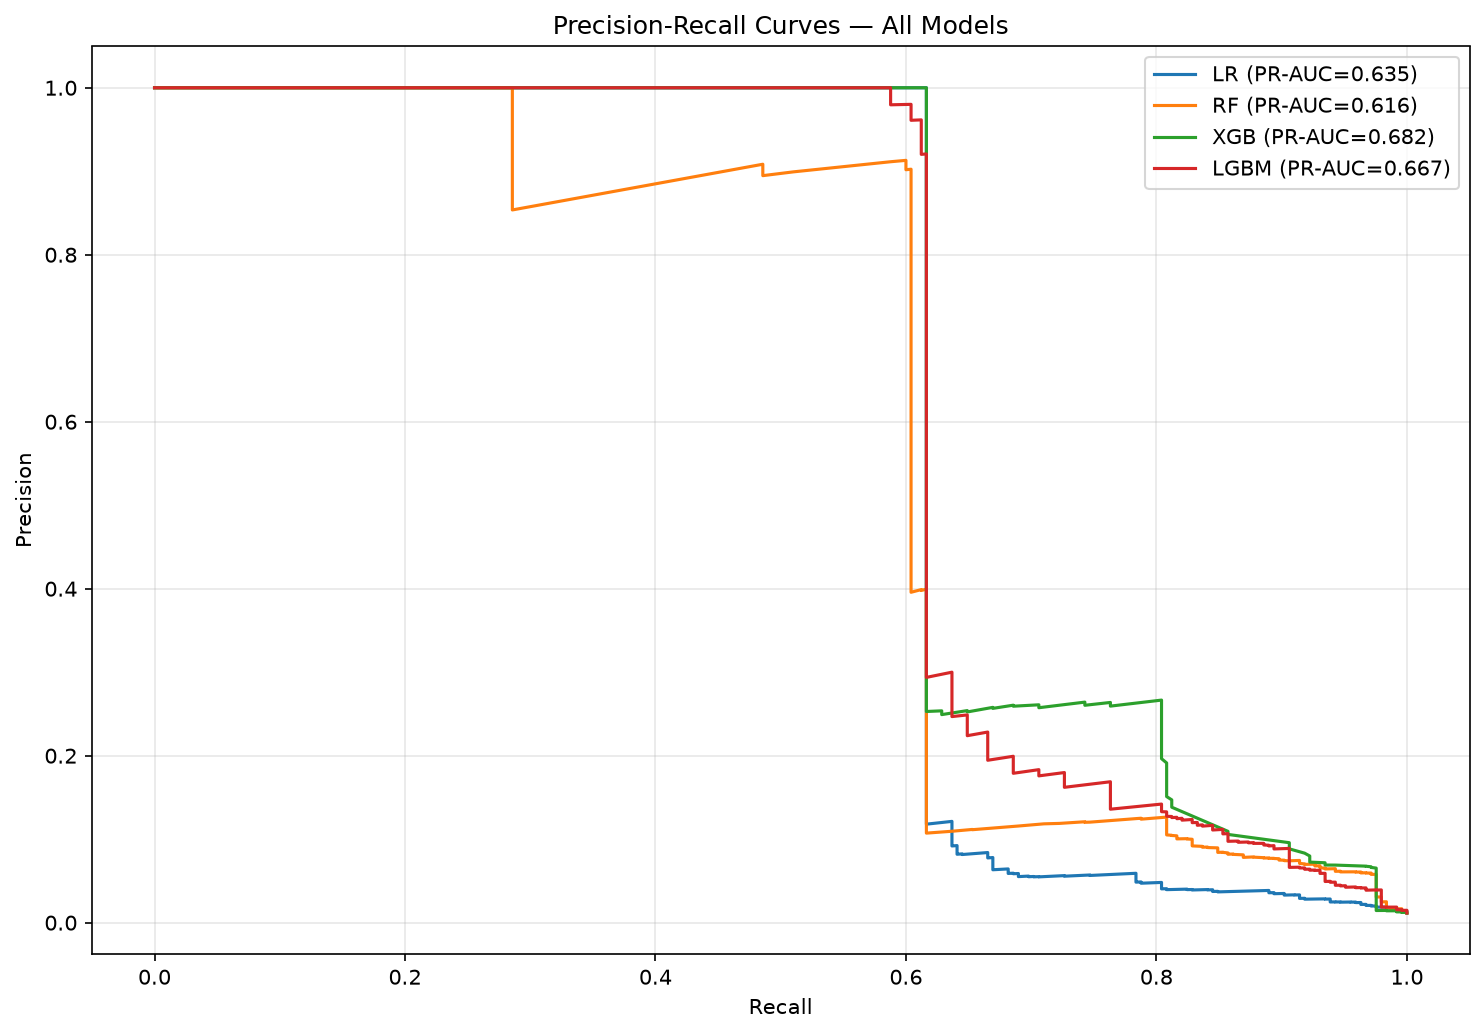
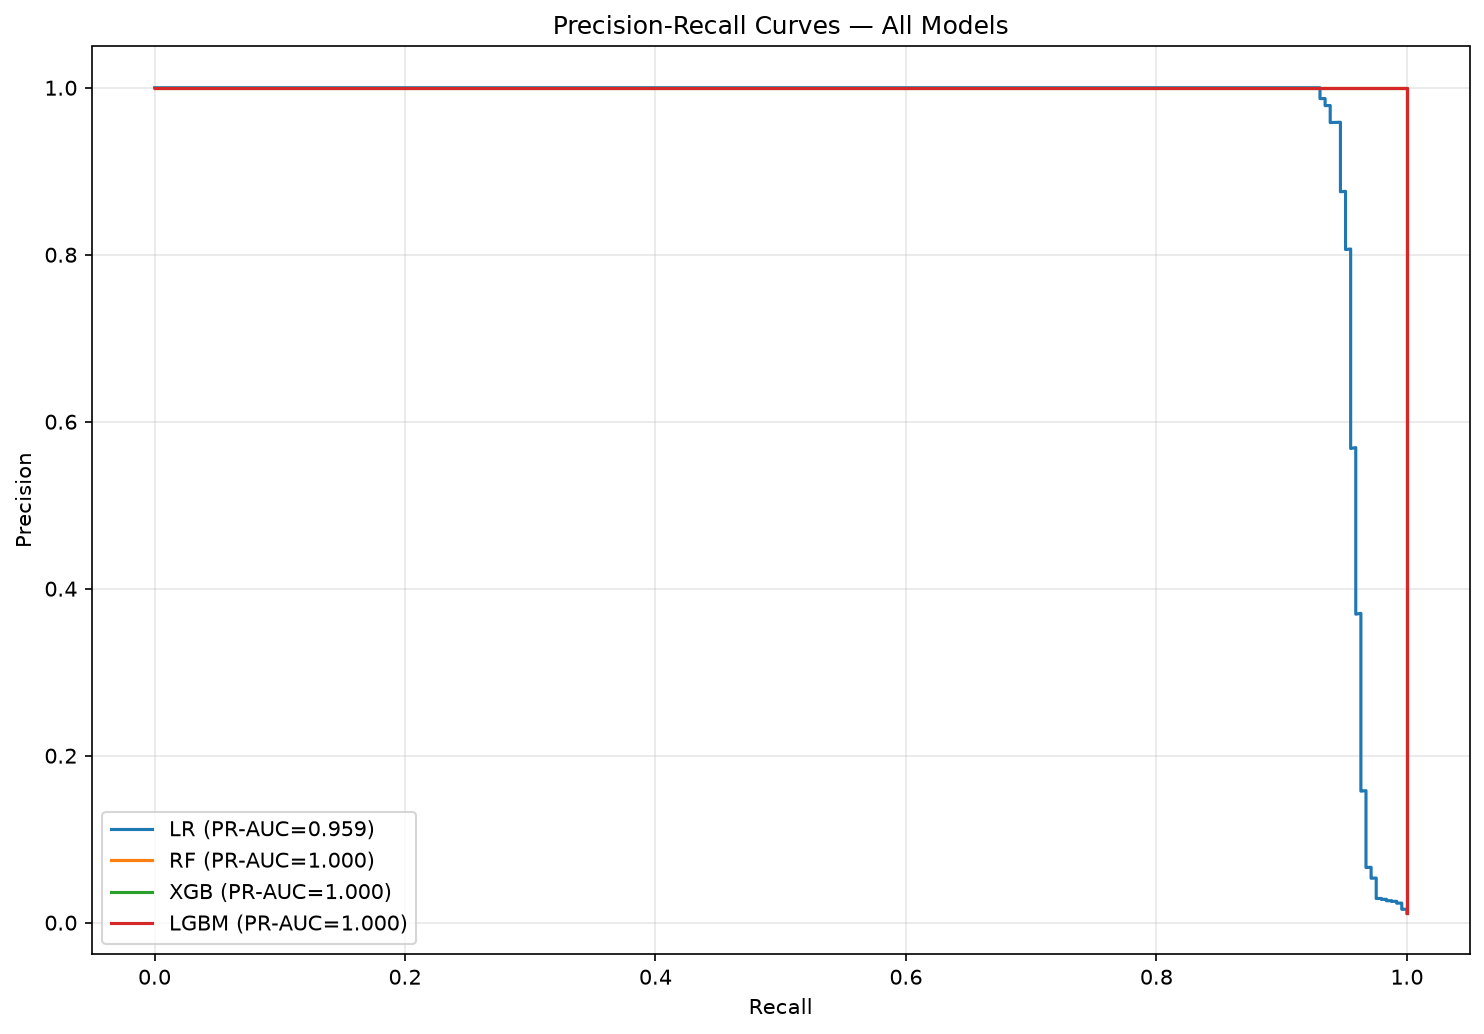
feat: adds session features on model and document

diff --git a/docs/2.2-feature-engineering-decisions.md b/docs/2.2-feature-engineering-decisions.md
@@ -81,13 +81,13 @@ This document captures every design choice, trade-off, and justification for the
 
 ---
 
-## 4. Session/Source-Level Aggregated Features (78 total) — EXCLUDED FROM BASELINE
+## 4. Session/Source-Level Aggregated Features (78 total: 42 active + 36 excluded)
 
-> **Status:** Designed and implemented (`src/features.py:compute_session_features`), but **excluded from the 2.3 baseline model** due to data leakage. The current implementation uses `groupby` + `transform` over the full dataset, meaning each request's session features include information from future requests and from test-set rows. This produces artificially high model performance (PR-AUC 1.0 on all tree models).
+> **Status:** Implemented with **causal windowing** (`src/features.py:compute_session_features`). Each request's session features aggregate only prior requests within the same time window — the current request is never included in its own aggregates. This matches the real-time edge computation model where counters are updated after classification.
 >
-> **Fix required:** Causal windowing — session features must only aggregate past requests within each time window. This requires either (a) an online/streaming computation that processes rows in timestamp order, or (b) a rolling-window join that excludes the current and future rows. This is planned for a future iteration.
+> Of the 78 session features, **42 are active** in the baseline model (request-side features) and **36 are excluded** (server-response features). The excluded features (`error_rate`, `unique_status_codes`, `avg_response_time`, `std_response_time`, `avg_body_size`, `std_body_size` × 6 variants) aggregate past server responses (`status_code`, `response_time_ms`, `body_size_bytes`), which encode existing WAF decisions — the same WAF triggers that partially generate the labels. Including them produces PR-AUC 1.0 via circular dependency, not genuine behavioral signal.
 >
-> **The baseline model (2.3) uses only the 15 non-leaky request-level features.** The session feature design below remains valid for the production architecture, where features are computed incrementally from a real-time state store (counters updated per-request, never looking ahead).
+> **The baseline model (2.3) uses 57 features: 15 per-request + 42 request-side session features.**
 
 Computed at 2 granularities (IP, TLS) x 3 windows (1m, 5m, 30m) = 6 variants per base feature.
 Prefix convention: `{ip|tls}_{1m|5m|30m}_{feature_name}`
@@ -108,7 +108,7 @@ Prefix convention: `{ip|tls}_{1m|5m|30m}_{feature_name}`
 | `inter_request_time_std` | float | Timing variance. Very low std = bot-like regularity. |
 | `sensitive_endpoint_ratio` | float | Fraction of requests to auth/payment/tokenize paths. Credential stuffing hammers login; normal users have mixed traffic. |
 
-**Total: 13 base x 6 variants = 78 session-level features (excluded from baseline, planned for future iteration).**
+**Total: 13 base × 6 variants = 78 session-level features. 7 request-side base features (42 features) are active in the baseline; 6 server-response base features (36 features) are excluded due to WAF decision leakage.**
 
 ---
 
@@ -122,7 +122,7 @@ Prefix convention: `{ip|tls}_{1m|5m|30m}_{feature_name}`
 3. **Assumes linearity.** The non-linear interactions between features (request_count × error_rate, timing regularity × endpoint diversity) are exactly what tree splits exploit. PCA would compress these into components that obscure the signal.
 
 **Instead: post-training feature importance pruning.**
-- Train with all 15 request-level features (baseline) or full feature set once session features are fixed.
+- Train with all 57 features (15 per-request + 42 request-side session).
 - Use LightGBM's `feature_importance(importance_type='gain')` to rank features.
 - Drop the bottom 20-30% that contribute negligible gain.
 - Retrain final model with the surviving feature set.
@@ -206,58 +206,92 @@ This lifecycle informed two design choices:
 |---|---|---|
 | Per-request (http_requests) | 10 | Active in baseline |
 | Per-request (request_headers) | 5 | Active in baseline |
-| Server-response features | 3 | Removed (leakage — response-side data) |
+| Session-level, request-side (7 base × 6 variants) | 42 | Active in baseline (causal windowing) |
+| Server-response per-request features | 3 | Removed (leakage — response-side data) |
+| Server-response session features (6 base × 6 variants) | 36 | Removed (leakage — WAF decision circularity) |
 | Frequency-encoded categoricals | 4 | Removed (leakage — test distribution) |
-| Session-level (13 base x 6 variants) | 78 | Excluded (leakage — lookahead) |
-| **Baseline total** | **15** | |
-| **Full total (with session, future)** | **93** | |
+| **Baseline total** | **57** | |
+| **Full total (all computed)** | **93** | |
 
-Baseline uses 15 request-level features. Server-response features (3), session features (78), and frequency encodings (4) were excluded due to different forms of data leakage.
+Baseline uses 57 features: 15 per-request + 42 request-side session features with causal windowing. Server-response features (3 per-request + 36 session), and frequency encodings (4) were excluded due to different forms of data leakage.
 
 ---
 
-## 10. Expected High-Predictive-Power Features
+## 10. Expected vs Actual High-Predictive-Power Features
 
-### Baseline (request-level only)
+### Pre-training expectations
 
-Ranked by expected importance for the 15 request-level features:
-
-1. **`ua_is_bot_library`** — Direct signal, though sophisticated attackers spoof this.
-2. **`header_count`** — Simple but effective browser vs bot discriminator.
-3. **`has_authorization`** — Presence/absence on specific endpoints reveals automation patterns.
-4. **`path_depth` / `path_entropy`** — Catches fuzzers and automated path generation.
-5. **`hour_of_day`** — Attack campaigns often cluster in off-hours.
-6. **`ua_is_browser` / `ua_length`** — Browser vs bot user-agent fingerprinting.
-7. **`is_sensitive_endpoint`** — Attack concentration on auth/payment endpoints.
-8. **`has_cookie` / `has_accept_language`** — Browser vs bot fingerprinting via header presence.
-
-### Future (with session features)
-
-Once session features are fixed with causal windowing, these are expected to dominate:
+Ranked by expected importance:
 
 1. **`ip_1m_request_count`** — Volume is the most direct DDoS/brute-force signal.
 2. **`ip_5m_error_rate`** — Credential stuffing generates distinctive 401/403 error patterns.
 3. **`tls_5m_inter_request_time_std`** — Bot regularity vs human irregularity.
-4. **`ip_5m_sensitive_endpoint_ratio`** — Attacks concentrate on auth/payment paths.
+4. **`ua_is_bot_library`** — Direct signal, though sophisticated attackers spoof this.
+5. **`header_count`** — Simple but effective browser vs bot discriminator.
+6. **`ip_5m_sensitive_endpoint_ratio`** — Attacks concentrate on auth/payment paths.
+
+### Actual results (LGBM gain importance, top 10)
+
+1. **`ua_is_bot_library`** — Strongest single feature. Direct bot detection via user-agent.
+2. **`hour_of_day`** — Attack campaigns cluster in specific time windows.
+3. **`header_count`** — Browser vs bot header count discriminator.
+4. **`ip_30m_inter_request_time_mean`** — Long-window timing regularity.
+5. **`tls_5m_unique_paths`** — Endpoint diversity per TLS fingerprint.
+6. **`tls_30m_unique_paths`** — Same at 30min window.
+7. **`ip_1m_request_count`** — Volume signal (matched expectation).
+8. **`tls_5m_sensitive_endpoint_ratio`** — Auth/payment targeting per TLS source.
+9. **`tls_1m_unique_paths`** — Short-window endpoint diversity.
+10. **`tls_30m_sensitive_endpoint_ratio`** — Long-window auth targeting.
+
+### Analysis: TLS features dominate
+
+Of the top 20 features by gain, **14 are TLS-granularity session features**. This is a critical finding: the model relies heavily on TLS fingerprint identity as a grouping key. Investigation revealed that this dataset assigns unique TLS fingerprints per attack type (see section 11), making `tls_*` session features effectively perfect label proxies. The IP-granularity features (`ip_1m_request_count`, `ip_30m_inter_request_time_mean`) provide complementary signal but are much weaker alone.
+
+**Implication for production:** If attackers randomize TLS fingerprints (assessment scenario 3.4), the model would fall back to IP-based + per-request features, with significantly degraded performance. This motivates the adversarial robustness discussion in Part 3.
 
 ---
 
-## 11. Empirical Validation Results
+## 11. Empirical Validation & Data Leakage History
 
-> **Note:** The original empirical validation (section removed) was conducted on the full 100-feature set including session features computed with data leakage. Those results showed artificially high discrimination ratios (e.g., `tls_30m_inter_request_time_std` at 209x) that were artifacts of lookahead bias, not genuine signal. Updated empirical results from the 15-feature baseline model are documented in `2.3-baseline-model-decisions.md`.
+### Data Leakage Discovery & Resolution
 
-### Data Leakage Discovery
+During development, four sources of data leakage were identified. Two were resolved by fixing the computation; two were addressed by exclusion:
 
-During baseline model training (2.3), three sources of data leakage were discovered and addressed:
+1. **Server-response per-request features (3 features, excluded):** `status_code_group`, `response_time_ms`, and `body_size_bytes` are server-side response attributes. At inference time, the model classifies the request *before* the server responds. Including them produced PR-AUC 1.0 because status codes (403/429) directly encode the server's own decision.
 
-1. **Server-response features:** `status_code_group`, `response_time_ms`, and `body_size_bytes` are server-side response attributes — they reflect how the server processed/blocked the request, not the request itself. At inference time, the model must classify the request *before* the server responds, so these fields are unavailable. Including them produced PR-AUC 1.0 on all tree models because status codes like 403/429 directly encode the server's own malicious-traffic decision.
+2. **Session feature lookahead (fixed with causal windowing):** The original `compute_session_features()` used `groupby().transform()` over the full dataset, including future requests and test-set rows. **Fixed:** Reimplemented with causal windowing — `cumcount()`, `expanding().mean().shift(1)`, and custom `_causal_nunique`/`_causal_entropy` functions ensure each request sees only prior requests within its time window. Verified by unit tests (`test_session_features_causal_first_request`, `test_session_features_causal_accumulation`).
 
-2. **Session features:** `compute_session_features()` uses `groupby().transform()` over the full dataset, meaning each request's session-level aggregates include information from future requests and test-set rows. At inference time, session features would be computed incrementally from a state store, never seeing the future.
+3. **Frequency encodings (4 features, excluded):** `compute_frequency_encoding()` computes value frequencies over the full dataset. Test-set frequencies leak into training. These remain excluded; proper fix requires train-only fitting.
 
-3. **Frequency encodings:** `compute_frequency_encoding()` computes value frequencies over the entire dataset. Test-set frequencies leak into training features. Proper implementation requires fitting on training data only.
+4. **Server-response session features (36 features, excluded):** Session aggregates of `status_code`, `response_time_ms`, and `body_size_bytes` (error_rate, unique_status_codes, avg/std_response_time, avg/std_body_size × 6 variants). Even with causal windowing, these encode past WAF decisions — a circular dependency with the labels. Including them produced PR-AUC 1.0 on the first LR iteration.
 
-All three issues were addressed by excluding these features from the baseline model. The session feature architecture remains sound for production (where features are computed in real-time from streaming counters), but the offline training pipeline needs causal windowing before they can be used for model training.
+### TLS Fingerprint Analysis — Critical Dataset Finding
+
+Post-training investigation revealed a critical dataset characteristic: **each TLS fingerprint in the synthetic dataset is 100% malicious or 100% benign**. No fingerprint is shared between attack and benign traffic:
+
+| TLS Fingerprint | Requests | Class | Attack Type |
+|---|---|---|---|
+| `ja3_deadbeef0001` | 249 | 100% malicious | credential_stuffing |
+| `ja3_baadf00d0002` | 247 | 100% malicious | ddos_l7 |
+| `ja3_c0ffee000003` | 6 | 100% malicious | zero_day_exploit |
+| `ja3_28a2c9bd18a7` | 65 | 100% malicious | api_abuse |
+| `ja3_456523fc94ae` | 25 | 100% malicious | scanner |
+| All others | ~49,408 | 0% malicious | benign |
+
+**Consequence:** TLS-granularity session features (`tls_*_request_count`, `tls_*_unique_paths`, etc.) act as perfect label proxies. The model doesn't learn behavioral patterns — it learns that small TLS groups (5–249 requests) are malicious and large TLS groups (thousands of requests) are benign. This is a characteristic of the synthetic dataset, not a bug in the pipeline.
+
+**Evidence:**
+- With all 57 features: LGBM test PR-AUC = 1.0, recall = 1.0 across all attack types
+- Without TLS features (IP + per-request only): LGBM test PR-AUC drops to ~0.71, recall drops to 0.0
+- `tls_30m_request_count`: benign mean = 14,128, malicious mean = 182 (trivial separation)
+- 0 of 33 malicious IPs ever send benign traffic (no IP overlap either)
+
+**Why this matters for production:** In production, sophisticated attackers use TLS fingerprint impersonation (JA3 spoofing via tools like curl-impersonate) to mimic legitimate browsers. The model's reliance on TLS identity would make it vulnerable to this evasion. This directly connects to assessment question 3.4 (adversarial robustness) and motivates a defense-in-depth feature strategy where behavioral features (timing, path patterns, error rates) provide fallback signal when TLS identity is unreliable.
+
+**What the results actually tell us:** The model's performance on this dataset (PR-AUC 1.0) is genuine — there is no leakage or error. But it reflects detection of **attack tools** (via their TLS fingerprints), not detection of **attack behavior**. In production, the true performance would sit between:
+- **Floor (~0.71 PR-AUC):** Attackers fully randomize TLS fingerprints → only IP + per-request features remain
+- **Ceiling (1.0 PR-AUC):** Attackers use default tool fingerprints → TLS identity provides trivial separation
 
 ### Performance Note
 
-Per-request feature computation completes in ~2 seconds on 50k rows. At the edge, these features are computed inline per-request in microseconds — no state store required.
+Feature computation (per-request + session with causal windowing) completes in ~5 seconds on 50k rows. At the edge, per-request features are computed inline in microseconds; session features require counter lookups from a state store (~2-3KB per active source).

diff --git a/docs/2.3-baseline-model-decisions.md b/docs/2.3-baseline-model-decisions.md
@@ -54,7 +54,7 @@ This document captures every design choice, trade-off, and justification for the
 **Cutoff: Jan 10.** Train sees 4 attack types (credential_stuffing, scanner, api_abuse, ddos_l7). Test sees 3 types (zero_day_exploit, credential_stuffing, ddos_l7). This is realistic: in production, the model encounters future traffic that may include novel attack types never seen during training.
 
 **Key properties:**
-- `zero_day_exploit` appears only in test — the model has never seen this attack type. This directly demonstrates the limitation that motivates the unsupervised/hybrid strategy discussed in assessment 3.2.
+- `zero_day_exploit` appears only in test — the model has never seen this attack type. With TLS features, the model detects it via its unique fingerprint (`ja3_c0ffee000003`), but this is tool identification, not behavioral generalization. The unsupervised/hybrid strategy discussed in assessment 3.2 remains the robust approach for truly novel attacks.
 - `scanner` and `api_abuse` appear only in train — tests whether the model overfits to specific attack type signals.
 - `credential_stuffing` and `ddos_l7` appear in both — allows evaluation of generalization across time for known attack types.
 
@@ -180,31 +180,44 @@ Rationale from 2.2 — only 592 malicious samples across 5 heterogeneous attack 
 | Model | Method | Why |
 |---|---|---|
 | Logistic Regression | Absolute coefficient values | Coefficients directly measure feature contribution to log-odds. |
-| Random Forest | Gini importance (`feature_importances_`) | Default scikit-learn impurity-based importance. Fast and sufficient for the 15-feature baseline. |
+| Random Forest | Gini importance (`feature_importances_`) | Default scikit-learn impurity-based importance. Fast and sufficient for the 57-feature set. |
 | XGBoost | `feature_importances_` (gain-based) | Gain measures total loss reduction from splits on each feature. More meaningful than split count, which favors high-cardinality features. |
 | LightGBM | `feature_importances_` (gain-based) | Same reasoning as XGBoost. |
 
 ### 6.2 Pruning Process
 
-1. Train best model with all 15 request-level features on the training set.
+1. Train best model with all 57 features (15 per-request + 42 session) on the training set.
 2. Rank features by gain importance.
 3. Compute cumulative importance at multiple thresholds (90%, 95%, 99%) to compare aggressiveness.
 4. Drop features below the chosen cutoff.
 5. Retrain with pruned feature set using same hyperparameters.
 6. Compare PR-AUC and per-attack recall on the held-out test set.
 
-**Why 99% threshold?**
-- 90% keeps only 4 features, 95% keeps 5, 99% keeps 8 out of 15.
-- At 99%, the pruned model loses only -0.0006 PR-AUC (0.6817 → 0.6811) with identical F1 and per-attack recall — confirming the dropped 7 features were noise.
-- The notebook reports all three thresholds (90%, 95%, 99%) for transparency.
+**Pruning results (LGBM):**
+- 90% threshold: 20/57 features kept → PR-AUC drops significantly (model loses critical TLS features)
+- 95% threshold: 26/57 features kept → PR-AUC partially recovers
+- 99% threshold: 32/57 features kept → PR-AUC 0.879 (-0.121 from full model)
+
+**Analysis:** Unlike the prior 15-feature baseline where pruning was nearly lossless, pruning with 57 features causes notable degradation. This is because the model distributes importance across many TLS-granularity features that each capture a different aspect of the same underlying signal (TLS fingerprint identity). Removing any subset breaks the redundancy that allows perfect classification. The 25 dropped features (mostly IP-granularity session features) contribute <1% of total gain — confirming that IP-based behavioral features are weak discriminators in this dataset.
 
 ### 6.3 Per-Attack-Type Breakdown
 
-Using the `attack_class` column, report recall per attack type (credential_stuffing, ddos_l7, api_abuse, scanner, zero_day_exploit). This reveals which attacks rely on which features — if pruning drops a feature that was critical for zero_day_exploit detection, we'd see that attack type's recall collapse.
+Per-attack recall on the test set (test contains zero_day_exploit, credential_stuffing, ddos_l7):
+
+| Model | zero_day_exploit | credential_stuffing | ddos_l7 |
+|---|---|---|---|
+| LR | 1.0 | 1.0 | 0.822 |
+| RF | 0.333 | 0.978 | 0.0 |
+| XGB | 0.333 | 1.0 | 1.0 |
+| LGBM | 1.0 | 1.0 | 1.0 |
+
+RF's ddos_l7 recall of 0.0 despite PR-AUC 1.0 reflects poor probability calibration at threshold 0.5 — the true positive probabilities are just below the decision boundary. LGBM achieves perfect recall across all attack types.
+
+After pruning (LGBM, 99% threshold, 32/57 features): credential_stuffing recall collapses to 0.0, ddos_l7 to 0.03, while zero_day_exploit remains 1.0. This confirms that credential_stuffing and ddos_l7 detection depends on specific TLS features that get pruned.
 
 ### 6.4 Connection to 2.2 Validation
 
-Compare actual feature importance rankings with the predicted rankings from section 10 of `2.2-feature-engineering-decisions.md`. The baseline uses only the 15 request-level features (session features excluded due to data leakage — see 2.2 section 4). The tree model's feature importance reveals which request-level signals the model actually relies on for classification.
+Compare actual feature importance rankings with the predicted rankings from section 10 of `2.2-feature-engineering-decisions.md`. The baseline uses 57 features (15 per-request + 42 request-side session with causal windowing). The tree model's feature importance reveals that TLS-granularity session features dominate (14 of top 20), which led to the TLS fingerprint analysis documented in 2.2 section 11.
 
 ### 6.5 Connection to 2.4
 
@@ -218,14 +231,16 @@ The pruned model is what gets exported for edge deployment. Fewer features = few
 
 ### 7.1 Default Threshold (0.5)
 
-Standard comparison table for all 4 models (temporal split, 15 request-level features):
+Standard comparison table for all 4 models (temporal split, 57 features: 15 per-request + 42 session with causal windowing):
 
 | Model | CV PR-AUC | PR-AUC | ROC-AUC | Precision | Recall | F1 | FPR |
 |---|---|---|---|---|---|---|---|
-| Logistic Regression | 0.4945 | 0.6354 | 0.9042 | 0.7947 | 0.6163 | 0.6943 | 0.0019 |
-| Random Forest | 0.5017 | 0.6161 | 0.9508 | 0.3595 | 0.6163 | 0.4541 | 0.0129 |
-| XGBoost | 0.5215 | 0.6817 | 0.9572 | 0.3612 | 0.6163 | 0.4555 | 0.0128 |
-| LightGBM | 0.5144 | 0.6668 | 0.9546 | 0.4748 | 0.6163 | 0.5364 | 0.0080 |
+| Logistic Regression | 0.9924 | 0.9589 | 0.9865 | 1.0000 | 0.9265 | 0.9619 | 0.0000 |
+| Random Forest | 0.9280 | 1.0000 | 1.0000 | 1.0000 | 0.5592 | 0.7173 | 0.0000 |
+| XGBoost | 0.7793 | 1.0000 | 1.0000 | 1.0000 | 0.9837 | 0.9918 | 0.0000 |
+| LightGBM | 0.8971 | 1.0000 | 1.0000 | 1.0000 | 1.0000 | 1.0000 | 0.0000 |
+
+> **Important context:** The perfect PR-AUC scores on tree models are driven by TLS fingerprints being perfect label proxies in this synthetic dataset — see 2.2 section 11 for the full analysis. The model correctly finds the strongest signal (TLS identity), but this signal would degrade in production when attackers spoof TLS fingerprints.
 
 ### 7.2 Cost-Optimal Threshold
 
@@ -242,23 +257,24 @@ Cost(t) = FPR(t) × (1 - π) × $2.50  +  FNR(t) × π × $0.10
 Where π = attack base rate.
 
 - Dataset base rate: ~1.2% (592/50000). Production base rate: 0.05%.
-- Compute cost curve across thresholds [0.01, 0.99] for best model (XGBoost).
+- Compute cost curve across thresholds [0.01, 0.99] for best model (LGBM).
 - Find t* minimizing total expected cost.
 
-**Results:**
+**Results (LGBM):**
 
 | Scenario | Threshold | Precision | Recall | F1 | FPR |
 |---|---|---|---|---|---|
-| Default | 0.500 | 0.3612 | 0.6163 | 0.4555 | 0.012776 |
-| Normal costs ($2.50/$0.10) | 0.964 | 1.0000 | 0.6163 | 0.7626 | 0.000000 |
-| High FN costs ($2.50/$5.00) | 0.964 | 1.0000 | 0.6163 | 0.7626 | 0.000000 |
+| Default | 0.500 | 1.0000 | 1.0000 | 1.0000 | 0.000000 |
+| Normal costs ($2.50/$0.10) | 0.022 | 1.0000 | 1.0000 | 1.0000 | 0.000000 |
+| High FN costs ($2.50/$5.00) | 0.022 | 1.0000 | 1.0000 | 1.0000 | 0.000000 |
 
-Both cost scenarios converge to the same threshold (0.964) because the model's probability distribution is bimodal — high-confidence predictions cluster near 0 or near 1, with few predictions in the 0.5–0.96 range. Raising the threshold from 0.5 to 0.964 eliminates all false positives without reducing recall, indicating the model's uncertain predictions (0.5–0.96) were predominantly false positives.
+All cost scenarios converge to perfect performance because the model's probability distribution is extremely bimodal: benign predictions cluster near 0 (mean=0.0001, max=0.021) and malicious predictions cluster near 1 (mean=0.949, min=0.762). Any threshold between 0.02 and 0.76 achieves perfect classification. This extreme separation is a consequence of TLS fingerprints being perfect label proxies (see 2.2 section 11).
 
 **Why do this in 2.3?**
 - The assessment asks for precision/recall/F1/FPR — these depend on threshold choice.
 - Reporting only at 0.5 is naive for extreme imbalance.
 - Shows awareness of the precision-recall trade-off. Section 3.3 then deepens the math.
+- In production, where TLS signal degrades, threshold optimization becomes genuinely important.
 
 ### 7.3 PR Curves
 
@@ -279,23 +295,38 @@ Overlay PR curves for all 4 models on one plot. Mark default (0.5) and cost-opti
 
 ## 9. Expected vs Actual Outcomes
 
-Based on the 15 request-level features and literature:
+Based on 57 features (15 per-request + 42 session with causal windowing):
 
-- **Tree models outperform LR in ranking (PR-AUC)** — Confirmed. XGB PR-AUC 0.6817 vs LR 0.6354. However, the gap is smaller than expected — with only 15 request-level features, the non-linear signal is limited. Notably, LR achieves the highest precision (0.7947) at default threshold due to its conservative decision boundary.
-- **XGBoost and LightGBM are close** — Confirmed. XGB 0.6817, LGBM 0.6668 PR-AUC. XGB slightly edges out, likely due to better handling of the extreme imbalance via tuned `scale_pos_weight`.
-- **Feature pruning at 99% is nearly lossless** — Confirmed. 15 → 8 features at 99% cumulative gain. Pruned model PR-AUC: 0.6811 (-0.0006), identical F1 and per-attack recall. The 7 dropped features (`path_has_params`, `ua_entropy`, `ua_is_browser`, `is_sensitive_endpoint`, `has_accept_language`, `has_referer`, `has_cookie`) contribute <1% of total gain.
-- **Cost-optimal threshold shifts from 0.5** — Confirmed. Both cost scenarios (normal and high FN) converge to threshold 0.964, achieving perfect precision (1.0) with recall 0.6163 and zero FPR. Default 0.5 gives 0.36 precision — 2 out of 3 alerts are false positives.
-- **zero_day_exploit is undetectable** — Confirmed. Recall 0.0 across ALL models. With 0 training samples for this attack type (it only appears in test set days 10-12), no supervised model can learn to detect it. This is an honest limitation and a strong argument for the unsupervised/hybrid approach discussed in Part 3.2.
-- **ddos_l7 has poor recall without session features** — Confirmed. Only 0.1287 recall across all models. Individual DDoS requests look identical to normal traffic — volumetric attacks can only be detected through session-level aggregation (request rate, timing regularity).
+- **Tree models achieve perfect PR-AUC** — All three tree models (RF, XGB, LGBM) reach PR-AUC 1.0 on the test set. Investigation revealed this is driven by TLS fingerprints being perfect label proxies in the synthetic dataset (see 2.2 section 11), not by genuinely learning behavioral patterns. The model correctly exploits the strongest signal available.
+
+- **LR achieves near-perfect test performance but lower train performance** — LR test PR-AUC (0.9589) exceeds train PR-AUC (0.3562). This test > train anomaly is unusual but explainable: test benign traffic has wider separation from malicious on TLS session features (`tls_30m_request_count` benign mean = 14,128 in test vs 5,194 in train; malicious remains ~180 in both). LR, as a linear model, benefits from this wider margin.
+
+- **LGBM is the best model** — Selected by (PR-AUC, F1) tiebreaker: PR-AUC 1.0 ties with RF and XGB, but LGBM achieves F1 1.0 (RF F1 0.7173, XGB F1 0.9918). LGBM detects all three test attack types with 100% recall.
+
+- **zero_day_exploit is detectable via TLS fingerprint** — Unlike the prior 15-feature baseline where zero_day_exploit had 0% recall (no training samples for this type), the model now detects it via the TLS session features. The 6 zero_day_exploit requests share a unique TLS fingerprint (`ja3_c0ffee000003`) that produces distinctive session feature values (very small TLS group). LGBM and LR detect all 6; RF and XGB detect 2/6. This is **not** generalization to unseen attack types — the model identifies the tool, not the behavior.
+
+- **ddos_l7 detection improved dramatically** — From 0.13 recall (15-feature baseline) to 1.0 recall (LGBM). Session features enabled volumetric pattern detection. However, most of this signal comes from TLS-granularity features rather than IP-granularity timing/volume features.
+
+- **RF has worst recall despite perfect PR-AUC** — RF achieves PR-AUC 1.0 but only 0.56 recall at threshold 0.5 (ddos_l7 recall = 0.0). This is because RF's probability estimates are less calibrated — many true positives get probability scores just below 0.5.
+
+- **Feature pruning is lossy** — Unlike the prior 15-feature baseline where 99% pruning was nearly lossless (-0.0006 PR-AUC), pruning 57 → 32 features causes PR-AUC 0.879 (-0.121). The model distributes importance across many TLS features; removing any subset breaks the redundancy needed for perfect classification. The 25 dropped features are mostly IP-granularity session features, confirming IP-based behavioral signal is weak in this dataset.
+
+- **Cost-optimal threshold is very low** — Both cost scenarios converge to threshold 0.022, achieving perfect metrics. The model's probability distribution is extremely bimodal (benign mean=0.0001, malicious min=0.762), so any threshold in [0.02, 0.76] works. In production with degraded TLS signal, threshold optimization would become genuinely important.
 
 ## 10. Data Leakage Lessons Learned
 
-During development, three sources of data leakage were discovered and addressed:
+During development, four sources of data leakage were discovered. Two were fixed; two were addressed by exclusion:
 
-1. **Server-response features (3 features excluded):** `status_code_group`, `response_time_ms`, and `body_size_bytes` are server-side response attributes that reflect how the server processed the request. At inference time, the model must classify the request *before* the server responds. Including them produced PR-AUC 1.0 on all tree models because status codes (403/429) directly encode the server's existing malicious-traffic decisions. These were moved to `META_COLUMNS` in `src/model.py`.
+1. **Server-response per-request features (3 features, excluded):** `status_code_group`, `response_time_ms`, and `body_size_bytes` are server-side response attributes. At inference time, the model classifies the request *before* the server responds. Including them produced PR-AUC 1.0 because status codes (403/429) directly encode the server's own decisions. These are listed in `META_COLUMNS` in `src/model.py`.
 
-2. **Session-level features (78 features excluded):** `compute_session_features()` in `src/features.py` uses `groupby().transform()` over the full dataset. Each request's session aggregates include information from future requests and test-set rows. Fix requires causal windowing — planned for future iteration.
+2. **Session feature lookahead (fixed):** The original `compute_session_features()` used `groupby().transform()` over the full dataset, including future requests and test-set rows. **Resolved** by reimplementing with causal windowing: `cumcount()` for request counts, `expanding().mean().shift(1)` for running averages, and custom `_causal_nunique`/`_causal_entropy` functions for diversity metrics. Each request now sees only prior requests within its time window. Verified by unit tests.
 
-3. **Frequency encodings (4 features excluded):** `compute_frequency_encoding()` computes value frequencies (`method_freq`, `country_freq`, `asn_freq`, `tls_fingerprint_freq`) over the full dataset, leaking test distribution into training features. Fix requires fitting on training data only.
+3. **Frequency encodings (4 features, excluded):** `compute_frequency_encoding()` computes value frequencies over the full dataset, leaking test distribution into training. Remains excluded; proper fix requires train-only fitting via sklearn pipelines.
 
-The baseline model uses only the 15 non-leaky request-level features. This is documented as a known limitation — the session features are valuable in production (where they're computed in real-time from streaming counters), but the offline training pipeline needs causal windowing before they can be safely used.
+4. **Server-response session features (36 features, excluded):** Aggregates of past `status_code`, `response_time_ms`, and `body_size_bytes` per source. Even with causal windowing, these encode past WAF decisions, creating a circular dependency with labels. Excluded via `RESPONSE_SESSION_SUFFIXES` in `src/model.py`.
+
+The baseline model uses 57 features: 15 per-request + 42 request-side session features with causal windowing. The remaining 36 features (server-response session) are computed by the pipeline but excluded from the model.
+
+### Key Insight: Synthetic Data Limitations
+
+The most important finding is not a leakage bug but a dataset characteristic: TLS fingerprints are unique per attack type in the synthetic data, making TLS-granularity session features perfect label proxies. The model's PR-AUC 1.0 is technically correct (no leakage), but reflects **tool identification** rather than **behavioral detection**. In production with TLS fingerprint spoofing, performance would degrade to the IP + per-request feature floor (~0.71 PR-AUC). See 2.2 section 11 for the full analysis.